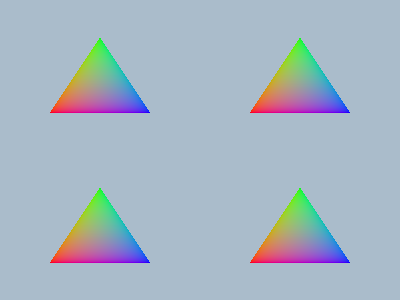
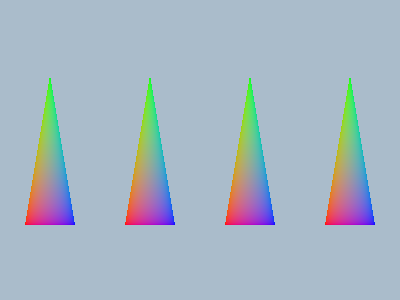
Avoid problematic viewport division causing different rounding errors

Changed region(s): [[0.54, 0.12, 0.96, 0.9], [0.06, 0.12, 0.45, 0.9]]

diff --git a/demos/gl/gl_vao_0.cpp b/demos/gl/gl_vao_0.cpp
@@ -118,13 +118,13 @@ void main()
       glVertexAttribPointer(2, 2, GL_FLOAT, GL_FALSE, sizeof(DefaultA2V),
                             (void *)(sizeof(Vec3f) + sizeof(Vec4f)));
 
-      glViewport(0, 0, GLsizei(screenWidth) / 2, GLsizei(screenHeight) / 2);
+      glViewport(0, 0, GLsizei(screenWidth) / 4, GLsizei(screenHeight));
       glDrawElements(GL_TRIANGLES, 3, GL_UNSIGNED_INT, NULL);
 
       // use direct pointers for indices
       glBindBuffer(GL_ELEMENT_ARRAY_BUFFER, 0);
 
-      glViewport(screenWidth / 2, 0, GLsizei(screenWidth) / 2, GLsizei(screenHeight) / 2);
+      glViewport(screenWidth / 4, 0, GLsizei(screenWidth) / 4, GLsizei(screenHeight));
       glDrawElements(GL_TRIANGLES, 3, GL_UNSIGNED_INT, idxs);
 
       // use direct pointers for vertices
@@ -135,14 +135,13 @@ void main()
       glVertexAttribPointer(1, 4, GL_FLOAT, GL_FALSE, sizeof(DefaultA2V), &DefaultTri[0].col);
       glVertexAttribPointer(2, 2, GL_FLOAT, GL_FALSE, sizeof(DefaultA2V), &DefaultTri[0].uv);
 
-      glViewport(0, screenHeight / 2, GLsizei(screenWidth) / 2, GLsizei(screenHeight) / 2);
+      glViewport(screenWidth / 2, 0, GLsizei(screenWidth) / 4, GLsizei(screenHeight));
       glDrawElements(GL_TRIANGLES, 3, GL_UNSIGNED_INT, NULL);
 
       // use direct pointers for both
       glBindBuffer(GL_ELEMENT_ARRAY_BUFFER, 0);
 
-      glViewport(screenWidth / 2, screenHeight / 2, GLsizei(screenWidth) / 2,
-                 GLsizei(screenHeight) / 2);
+      glViewport((screenWidth * 3) / 4, 0, GLsizei(screenWidth) / 4, GLsizei(screenHeight));
       glDrawElements(GL_TRIANGLES, 3, GL_UNSIGNED_INT, idxs);
 
       Present();
